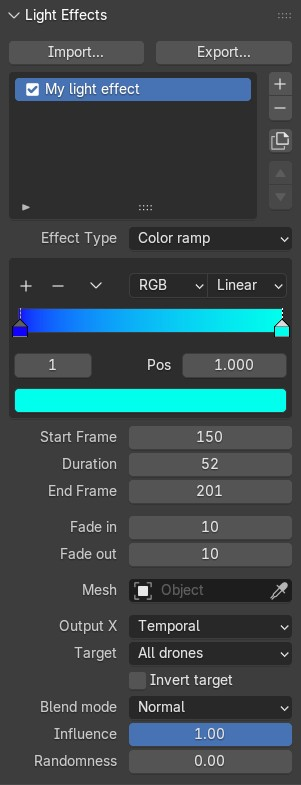
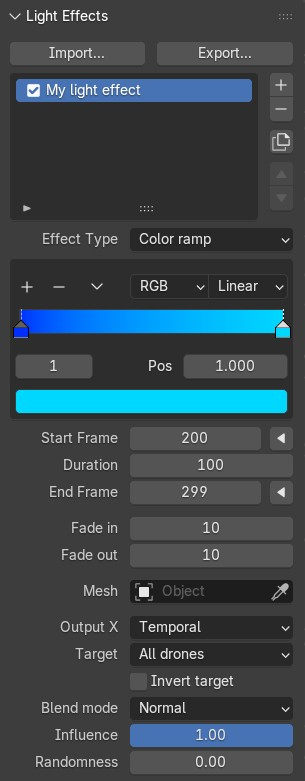
docs: updade docs and readme around start/end frames set to current frame

diff --git a/CHANGELOG.md b/CHANGELOG.md
@@ -17,6 +17,9 @@ and this project adheres to [Semantic Versioning](https://semver.org/spec/v2.0.0
 - Added mandatory backend version check before dispatching the first request to
   the current server instance.
 
+- Added small buttons next to the start and end frame properties of storyboard entries
+  and light effects to be able to set them to the current frame easily.
+
 ### Changed
 
 - The minimum backend version required for this version of the add-on is now
